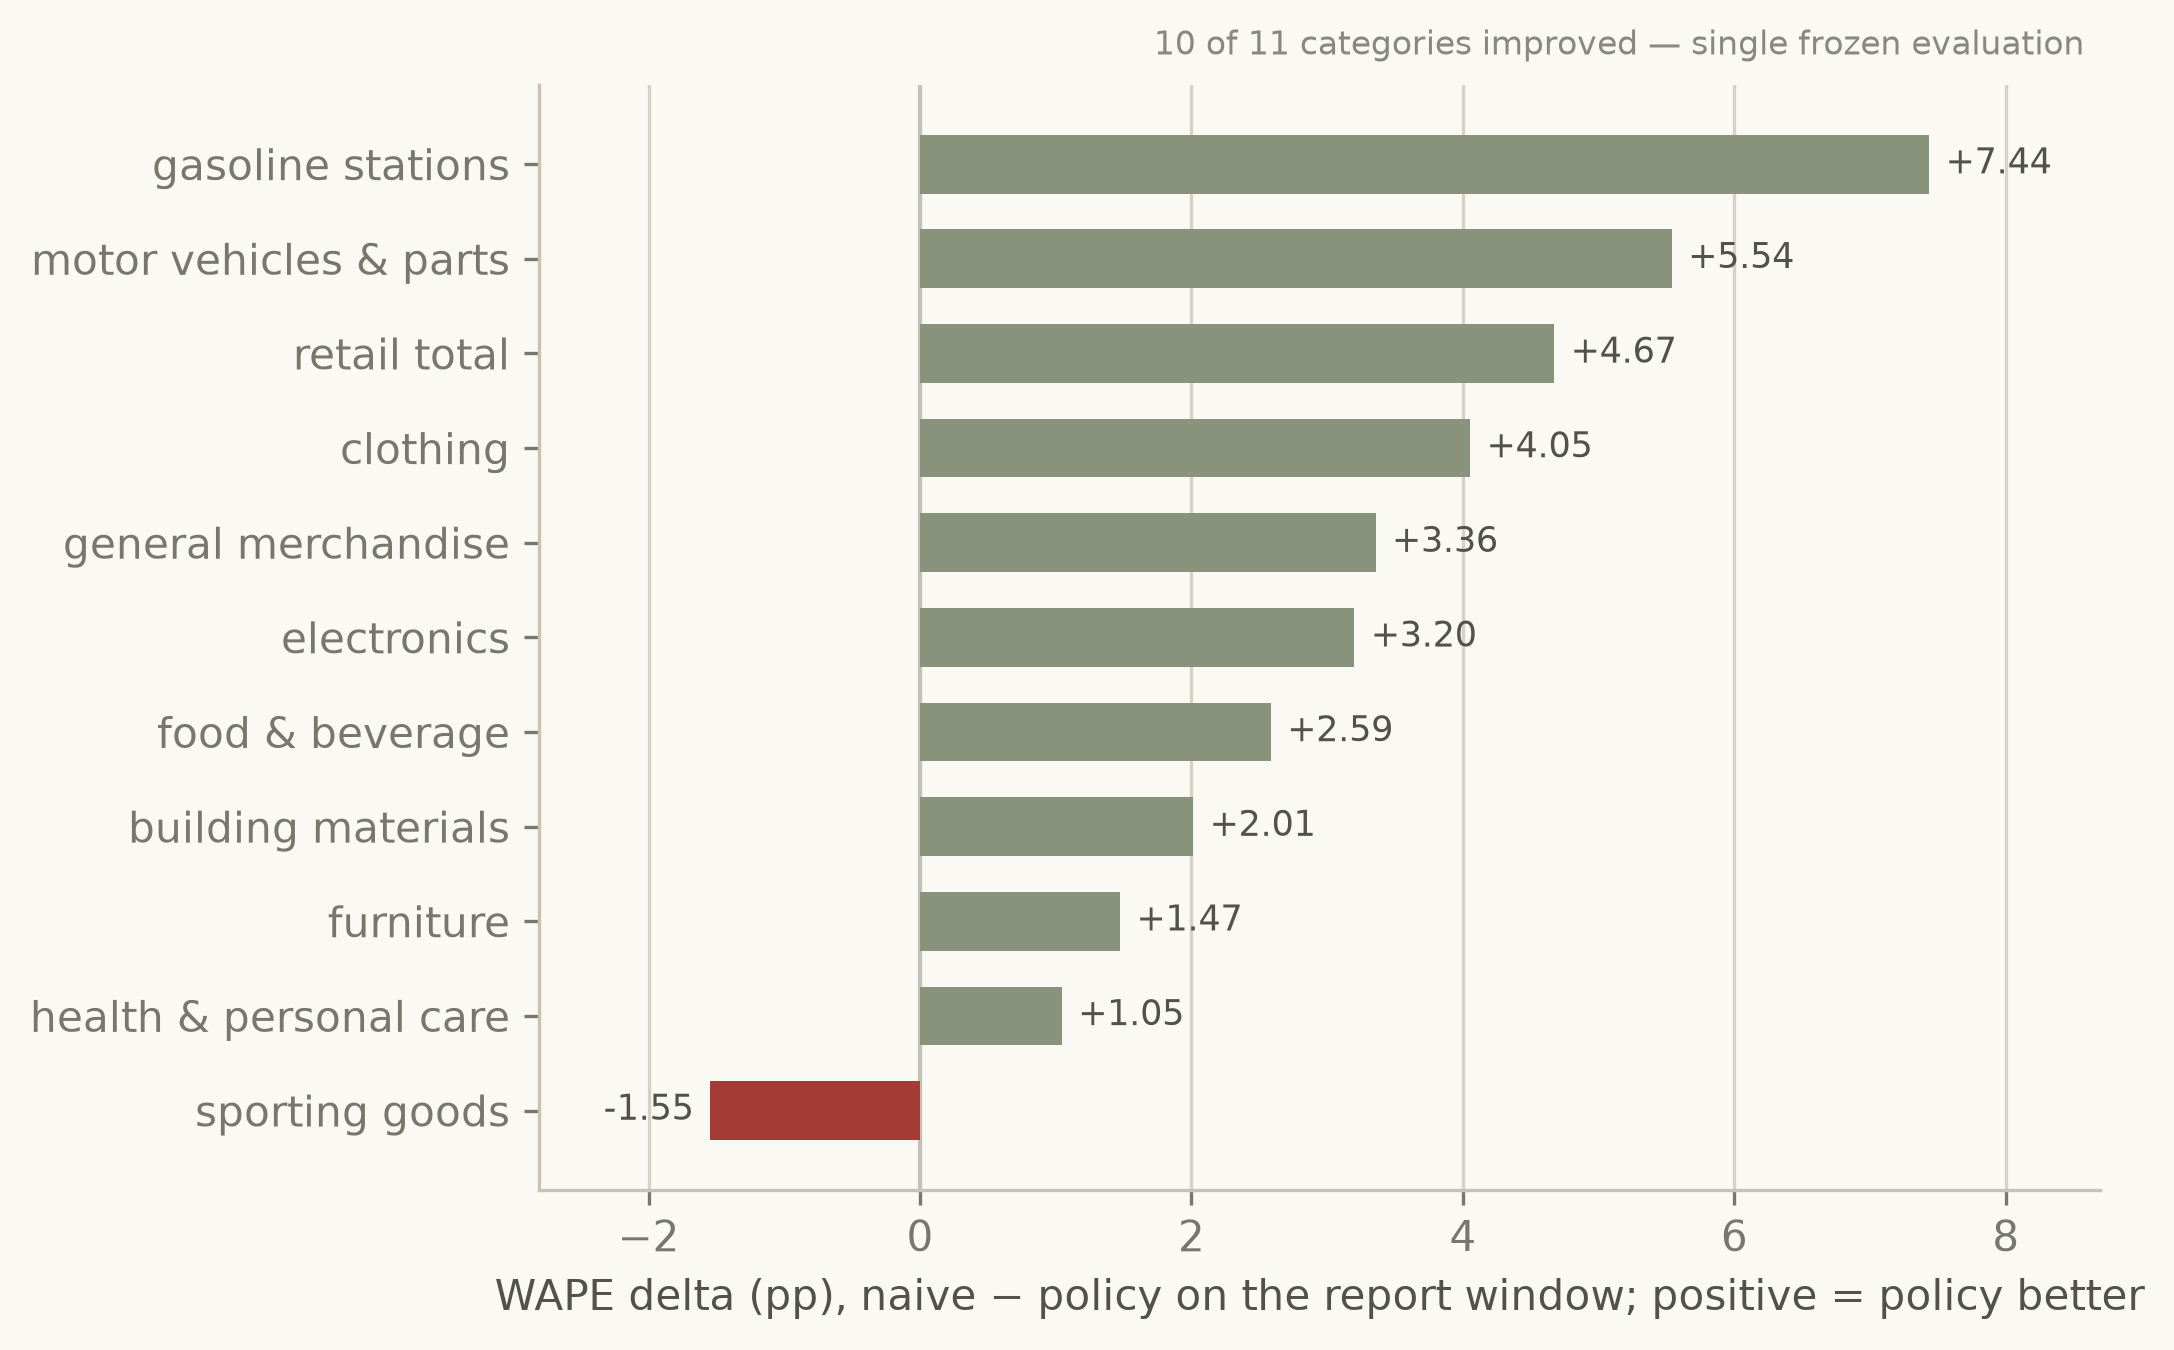
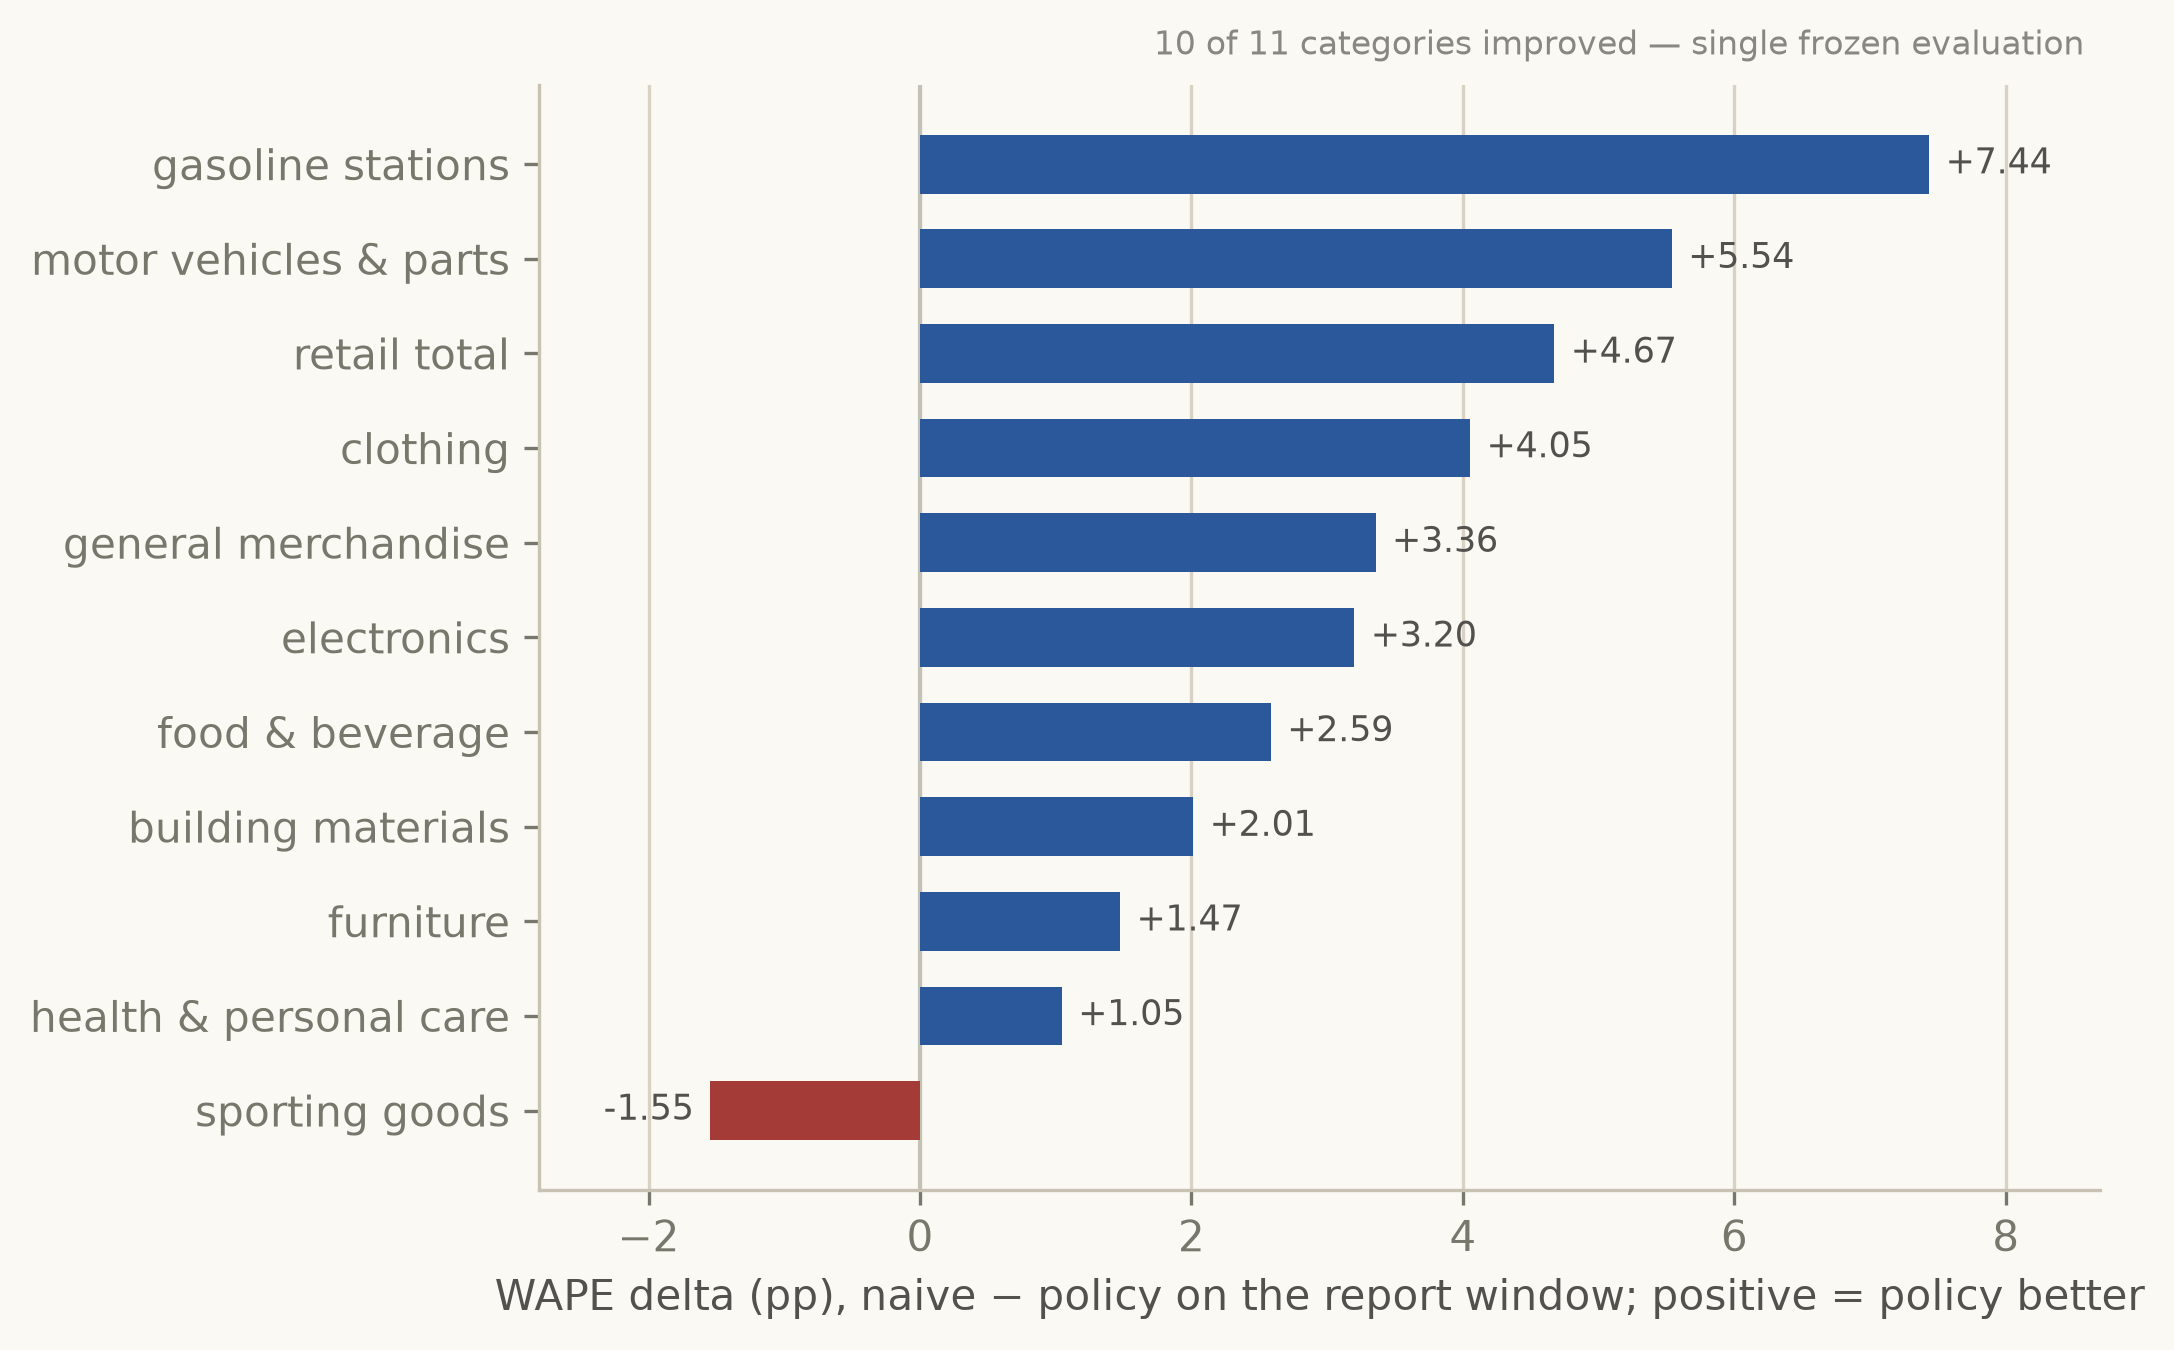
LightGBM becomes sakura rose; policy takes the deep indigo
User call: the indigo bars should be a lighter pink. Validated all-gates
arrangement on cream: LightGBM sakura rose #d4708c, policy koiai indigo
#2b579b (worst adjacent pair indigo-rose: protan 16.3, normal 24.2),
theta shu crimson, naive nezumi gray. Grouped-bar order becomes
naive | theta | policy | LightGBM so the rose never sits beside the
crimson - the lab bundle's model order follows, and the tau slider and
captions say indigo, not sage.

Changed region(s): [[0.4006, 0.0933, 0.8937, 0.7778]]

diff --git a/frontend/src/content/story.ts b/frontend/src/content/story.ts
@@ -219,8 +219,8 @@ export const storyChapters: StoryChapter[] = [
         figure: {
           src: storyImage('policy_categories_report.png'),
           caption:
-            'Per-category WAPE delta, naive minus policy, on the report window; positive (sage) means the policy was better. Ten of eleven categories improved, and the one loss is sporting goods (−1.55pp).',
-          alt: 'Horizontal bar chart of the WAPE delta per category on the report window; ten sage positive bars and one crimson negative bar for sporting goods.',
+            'Per-category WAPE delta, naive minus policy, on the report window; positive (indigo) means the policy was better. Ten of eleven categories improved, and the one loss is sporting goods (−1.55pp).',
+          alt: 'Horizontal bar chart of the WAPE delta per category on the report window; ten indigo positive bars and one crimson negative bar for sporting goods.',
         },
       },
       {
@@ -263,7 +263,7 @@ export const storyChapters: StoryChapter[] = [
         figure: {
           src: storyImage('policy_reliability.png'),
           caption:
-            'Reliability of P(theta wins): CHOOSE out-of-fold deciles (sage, n=77, Brier 0.155) transfer badly to the report window (diamonds, n=99, Brier 0.276) — worse than always calling theta at the 72.7% base rate. Base-rate-robust calibration is the spec for any future policy.',
+            'Reliability of P(theta wins): CHOOSE out-of-fold deciles (indigo, n=77, Brier 0.155) transfer badly to the report window (diamonds, n=99, Brier 0.276) — worse than always calling theta at the 72.7% base rate. Base-rate-robust calibration is the spec for any future policy.',
           alt: 'Reliability diagram comparing CHOOSE out-of-fold probability deciles against the frozen report-window deciles, showing the calibration degradation.',
         },
       },

diff --git a/frontend/src/components/lab/TauSweepSlider.tsx b/frontend/src/components/lab/TauSweepSlider.tsx
@@ -23,7 +23,7 @@ const INK = '#25251f';
 const INK2 = '#52514e';
 const MUTED = '#77776c';
 const GRID = '#d8d1c4';
-const POLICY = '#89927a';
+const POLICY = '#2b579b';
 const CRIMSON = '#a43b36';
 
 const pct = (value: number) => `${(100 * value).toFixed(2)}%`;
@@ -121,7 +121,7 @@ export const TauSweepSlider: FC = () => {
           step={0.02}
           value={tau}
           onChange={(e) => setTau(Number(e.target.value))}
-          className="h-1 w-full cursor-pointer accent-[#89927a]"
+          className="h-1 w-full cursor-pointer accent-[#2b579b]"
           aria-label="policy threshold tau"
         />
         <span className="w-14 shrink-0 font-mono text-sm" style={{ color: INK2 }}>

diff --git a/frontend/src/content/lab.ts b/frontend/src/content/lab.ts
@@ -195,9 +195,9 @@ export const gateCandidates: GateCandidate[] = [
 
 export const MODEL_COLORS: Record<string, string> = {
   seasonal_naive: '#6b6b66',
-  global_lightgbm: '#1f4e8c',
+  global_lightgbm: '#d4708c',
   theta_method: '#a43b36',
-  regime_switch_policy: '#89927a',
+  regime_switch_policy: '#2b579b',
 };
 
 export const MODEL_LABELS: Record<string, string> = {

diff --git a/scripts/build_lab_data.py b/scripts/build_lab_data.py
@@ -197,7 +197,7 @@ def window_categories(satellite_results: Path) -> None:
             ),
         },
         "windows": list(window_keys),
-        "models": ["seasonal_naive", "global_lightgbm", "theta_method", "regime_switch_policy"],
+        "models": ["seasonal_naive", "theta_method", "regime_switch_policy", "global_lightgbm"],
         "mean_category_wape": means,
         "rows": rows,
     }
